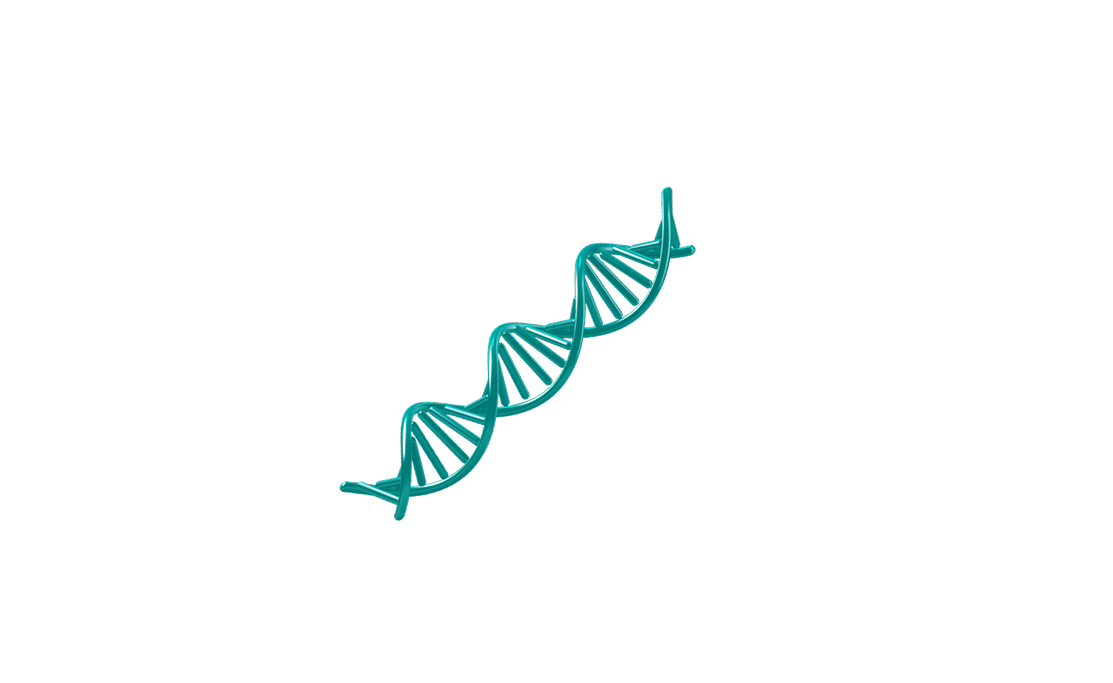
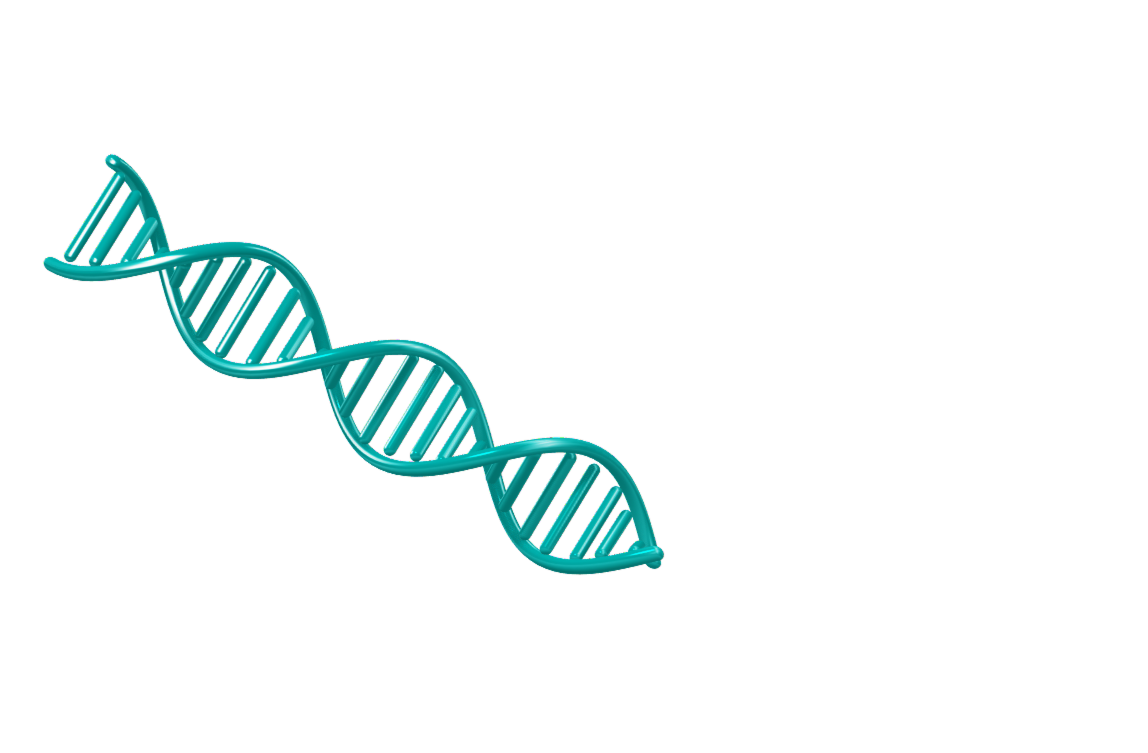
update

Changed region(s): [[0.0305, 0.1845, 0.6415, 0.7687]]

diff --git a/resources/views/product.blade.php b/resources/views/product.blade.php
@@ -102,46 +102,57 @@
                     <h6 class="reviews__title">Customer Reviews</h6>
                     <h6 class="reviews__reviews">{{$product->countReviews()}} Reviews</h6>
                 </div>
-                <form  class="reviews__right" href="#reviews">
-                    <button class="reviews__btn" name="writeReview" value="display" style="display: {{$writeReview == 'display' ? 'none' : 'display'}}">WRITE A REVIEW</button>
-                    <button style="display: {{$writeReview == 'display' ? 'display' : 'none'}}" class="reviews__btn" name="writeReview" value="none">HIDE THE FORM</button>
+                <form class="reviews__right" href="#reviews">
+                    <button class="reviews__btn" name="writeReview" value="display"
+                            style="display: {{$writeReview == 'display' ? 'none' : 'display'}}">WRITE A REVIEW
+                    </button>
+                    <button style="display: {{$writeReview == 'display' ? 'display' : 'none'}}" class="reviews__btn"
+                            name="writeReview" value="none">HIDE THE FORM
+                    </button>
                 </form>
             </div>
             <div class="reviews__main" id="reviews">
                 @if($writeReview == 'display')
-                <form method="post" class="review-create" style="width: 100%; gap: 10px; display: flex; flex-direction: column; margin-bottom: 60px
+                    <form method="post" class="review-create" style="width: 100%; gap: 10px; display: flex; flex-direction: column; margin-bottom: 60px
                     " enctype='multipart/form-data' action="{{route('review')}}">
-                    @csrf
-                    <input type="text" name="product_id" hidden value="{{$product->id}}">
-                    <div style="width: 100%; ; padding-bottom: 20px; border-radius: 8px;">
-                        <input multiple type="file"
-                               style="width: 100%;padding: 10px; background-color: #f2f7f8; border-radius: 8px"
-                               id="" accept="image/png, image/jpeg" name="images[]" >
-                    </div>
-                    <div style="width: 100%; ; padding-bottom: 20px; border-radius: 8px; ">
-                    <textarea style="width: 100%;padding: 10px; background-color: #f2f7f8; border-radius: 8px" name="text"
-                              id="" placeholder="Your text ..."></textarea>
-                    </div>
-                    <button class="reviews__btn" type="submit" style="display: inline-block">Submit</button>
-                </form>
-@endif
-@foreach($reviews as $review)
-                <div class="review">
-                    <div class="review__left">
-                        <h5 class="review__name">{{$review->user()->name}}</h5>
-                        <h6 class="review__date">{{$review->created_at}}</h6>
-                    </div>
-                    <div class="review__right">
-                        <p class="review__top">{{$review->text}}</p>
-                        <p class="review__bottom">
-                            @foreach($review->images() as $image)
-                            <img src="{{asset('storage/' . $image->patch)}}" alt="">
-                            @endforeach()
-                        </p>
-                    </div>
-                </div>
-@endforeach()
-                <button name='showmore' class="reviews__more">SHOW MORE</button>
+                        @csrf
+                        <input type="text" name="product_id" hidden value="{{$product->id}}">
+                        <div style="width: 100%; ; padding-bottom: 20px; border-radius: 8px;">
+                            <input multiple type="file"
+                                   style="width: 100%;padding: 10px; background-color: #f2f7f8; border-radius: 8px"
+                                   id="" accept="image/png, image/jpeg" name="images[]">
+                        </div>
+                        <div style="width: 100%; ; padding-bottom: 20px; border-radius: 8px; ">
+                    <textarea style="width: 100%;padding: 10px; background-color: #f2f7f8; border-radius: 8px"
+                              name="text"
+                              required id="" placeholder="Your text ..."></textarea>
+                        </div>
+                        <button class="reviews__btn" type="submit" style="display: inline-block">Submit</button>
+                    </form>
+                @endif
+                @foreach($reviews as $review)
+                    <form class="review" action="{{route('review.delete')}}" method="post">
+                        @csrf
+                        <div class="review__left">
+                            <h5 class="review__name">{{$review->user()->name}}</h5>
+                            <h6 class="review__date">{{$review->created_at}}</h6>
+                            <br>
+                            @if(auth()->check() and auth()->user()->id == $review->user()->id)
+                                <input type="text" hidden name="review_id" value="{{$review->id}}">
+                                <button type="submit" class="reviews__btn">Delete</button>
+                            @endif
+                        </div>
+                        <div class="review__right">
+                            <p class="review__top">{{$review->text}}</p>
+                            <p class="review__bottom">
+                                @foreach($review->images() as $image)
+                                    <img src="{{asset('storage/' . $image->patch)}}" alt="">
+                                @endforeach()
+                            </p>
+                        </div>
+                    </form>
+                @endforeach()
+{{--                <a name='showmore' class="reviews__more">SHOW MORE</a>--}}
             </div>
         </div>
     </section>

diff --git a/resources/views/layouts/profile.blade.php b/resources/views/layouts/profile.blade.php
@@ -55,21 +55,35 @@
                 <img class="account__img" style="border-radius: 100px" src="{{ auth()->user()->avatar ? asset('storage/' . auth()->user()->avatar) : '/img/user.png' }}" alt="">
                 <div>
                     <h5 class="account__name">{{auth()->user()->name}}</h5>
-                    <h6 class="account__status">Status: <span>Verified</span></h6>
+                    <h6 class="account__status">Status: <span>Not Verified</span></h6>
                 </div>
             </div>
             <form class="account__ul" action="{{route('logout')}}" method="post">
                 @csrf
-                <a href="{{route('profile.cart')}}" class="account__item {{request()->is('profile/cart') ? 'active' : ''}}">My Cart</a>
-                <a href="{{route('profile.referral')}}" class="account__item" {{request()->is('profile/referral') ? 'active' : ''}}>Referral Program</a>
-                <a href="{{route('profile.status')}}" class="account__item" {{request()->is('profile/status') ? 'active' : ''}}>Account Status</a>
-                <a href="{{route('profile.support')}}" class="account__item" {{request()->is('profile/support') ? 'active' : ''}}>Support</a>
-                <a href="{{route('profile.balance')}}" class="account__item" {{request()->is('profile/balance') ? 'active' : ''}}>Balance</a>
-                <a href="{{route('profile.edit')}}" class="account__item {{request()->is('profile/edit') ? 'active' : ''}}">Edit Profile</a>
+                <a href="{{route('profile.cart')}}" class="account__item {{request()->is('profile/cart') ? 'active' : ''}}">
+                    <img style="width: 16px; margin-top: 3px; margin-right: 5px" src="{{ asset('./img/cart.svg')}}" alt="">
+                    My Cart</a>
+                <a href="{{route('profile.referral')}}" class="account__item {{request()->is('profile/referral') ? 'active' : ''}}">
+                    <img style="width: 16px; margin-top: 3px; margin-right: 5px" src="{{ asset('./img/ref.svg')}}" alt="">
+                    Referral Program</a>
+                <a href="{{route('profile.status')}}" class="account__item {{request()->is('profile/status') ? 'active' : ''}}">
+                    <img style="width: 16px; margin-top: 3px; margin-right: 5px" src="{{ asset('./img/star.svg')}}" alt="">
+                    Account Status</a>
+                <a href="{{route('profile.support')}}" class="account__item {{request()->is('profile/support') ? 'active' : ''}}">
+                    <img style="width: 16px; margin-top: 3px; margin-right: 5px" src="{{ asset('./img/message.svg')}}" alt="">
+                    Support</a>
+                <a href="{{route('profile.balance')}}" class="account__item {{request()->is('profile/balance') ? 'active' : ''}}">
+                    <img style="width: 16px; margin-top: 3px; margin-right: 5px" src="{{ asset('./img/message.svg')}}" alt="">
+                    Balance</a>
+                <a href="{{route('profile.edit')}}" class="account__item {{request()->is('profile/edit') ? 'active' : ''}}">
+                    <img style="width: 16px; margin-top: 3px; margin-right: 5px" src="{{ asset('./img/edit.svg')}}" alt="">
+                    Edit Profile</a>
 
                 <button  class="account__item" style="
               text-align: left; margin-top: 20px; color: #222222;
-                ">Log out</button>
+                ">
+                    <img style="width: 16px; margin-top: 3px; margin-right: 5px" src="{{ asset('./img/logout.svg')}}" alt="">
+                    Log out</button>
             </form>
         </div>
         <div class="account__right">
@@ -87,16 +101,20 @@
             </div>
             <div class="social__right">
                 <a class="social__item">
-                    Telegram
+                    <img src={{ asset('/img/tg.svg')}} alt="">
+                    <p>Telegram</p>
                 </a>
                 <a class="social__item">
-                    YouTube
+                    <img src={{ asset('/img/yt.svg')}} alt="">
+                    <p>YouTube</p>
                 </a>
                 <a class="social__item">
-                    Reddit
+                    <img src={{ asset('/img/reddit.svg')}} alt="">
+                    <p>Reddit</p>
                 </a>
                 <a class="social__item">
-                    X (Twitter)
+                    <img src={{ asset('/img/x.svg')}} alt="">
+                    <p>X (Twitter)</p>
                 </a>
             </div>
         </div>
@@ -122,7 +140,9 @@
 
 
         </div>
-        <a href="#header" class="footer__btn"></a>
+        <a href="#header" class="footer__btn">
+            <img src="{{ asset('./img/arrow-up.svg')}}" alt="" style="display:block; margin: 0 auto; padding-top: 14px;">
+        </a>
     </div>
     <div class="footer__bottom">
         <div class="container">

diff --git a/resources/views/index.blade.php b/resources/views/index.blade.php
@@ -8,7 +8,7 @@
                 <p class="banner__descritpion">
                     Smart sepplements and tools to help you think <br> sharper, sleep better, and feel more alive.
                 </p>
-                <a class="banner__btn"><p>shop new</p></a>
+                <a href="#store" class="banner__btn"><p>shop new</p></a>
             </div>
         </div>
     </section>
@@ -62,11 +62,12 @@
                     <span>You get 5%</span> of every order made by your referral. <br>
                     They receive <span>5% off on all products.</span>
                 </p>
-                <a href="" class="referral__btn">SIGN IN TO GET YOUR LINK</a>
+                <a href="{{route('profile.referral')}}" class="referral__btn">SIGN IN TO GET YOUR LINK</a>
                 <p href="" class="referral__caption">Referral rewards are added after a completed purchase.
                     Discountsmapply automaticaly at checkout.</p>
             </div>
-            <img src="./img/dna1.png" alt="" style="position: absolute; z-index: -1 ;top: -240px; left: -450px; width: 500%; transform: rotate(355deg);">
+            <img src="./img/dna.png" alt="" style="position: absolute; z-index: -1; left: 15px; top: -200px">
+            <img src="./img/dna1.png" alt="" style="position: absolute; z-index: -1; right: 0; top: -350px">
         </div>
     </section>
     <section class="faq" id="faq">

diff --git a/app/Http/Controllers/Admin/UserAdminController.php b/app/Http/Controllers/Admin/UserAdminController.php
@@ -18,12 +18,24 @@ class UserAdminController extends Controller
     public function index(Request $request): View
     {
         $users = User::all();
-        return view('admin.user.index', compact('users'));
+        $ids = [];
+        foreach ($users as $user) {
+            $mes = Message::where('user_id', $user->id)->latest()->first();
+            if ($mes and $mes->status != 'read') {
+                $ids[] = $user->id;
+            };
+        }
+        $usersActive = User::findMany($ids);
+        $users = User::whereNotIn('id', $ids)->get();
+        return view('admin.user.index', compact('users', 'usersActive'));
     }
 
     public function chat(User $user, Request $request): View
     {
         $messages = Message::where('user_id', $user->id)->get();
+        foreach ($messages as &$message) {
+            $message->update(['status' => 'read']);
+        }
         return view('admin.user.chat', compact('user', 'messages'));
     }
 
@@ -32,7 +44,7 @@ class UserAdminController extends Controller
         $all = $request->all();
         Message::create([
             'text' => $all['text'],
-            'status' => 'new',
+            'status' => 'read',
             'whom' => 'user',
             'user_id' => $all['user_id']
         ]);

diff --git a/app/Http/Controllers/MainController.php b/app/Http/Controllers/MainController.php
@@ -113,18 +113,29 @@ class MainController extends Controller
             'product_id' => $all['product_id'],
             'text' => $all['text'],
             'user_id' => auth()->user()->id,
-
         ]);
 
-        $files = $all['images'];
-        foreach ($files as $file) {
-            $patch = $file->store('reviews', 'public');
-            ProductReviewImage::create([
-                'patch' => $patch,
-                'product_review_id' => $pr->id,
-            ]);
-        }
 
+        if (isset($all['images'])) {
+            $files = $all['images'];
+            foreach ($files as $file) {
+                $patch = $file->store('reviews', 'public');
+                ProductReviewImage::create([
+                    'patch' => $patch,
+                    'product_review_id' => $pr->id,
+                ]);
+            }
+        }
         return redirect()->route('product', $all['product_id']);
     }
+
+    public function review_delete(Request $request)
+    {
+        $review = ProductReview::where('id', $request->review_id)->first();
+        if ($review and auth()->user()->id == $review->user()->id) {
+            $review->delete();
+        }
+        return back();
+    }
+
 }

diff --git a/resources/views/admin/user/index.blade.php b/resources/views/admin/user/index.blade.php
@@ -17,6 +17,21 @@
                         </tr>
                         </thead>
                         <tbody>
+
+                        @foreach($usersActive as $user)
+                            <tr class="align-middle" >
+                                <td>{{$user->id}}</td>
+                                <td style="background-color: #7fdbda80;">
+                                    <p >{{$user->name}}</p>
+                                </td>
+                                <td>
+
+                                    <a href="{{route('admin.user.chat', $user->id)}}" type="submit"
+                                       class="btn btn-dark">Chat</a>
+
+                                </td>
+                            </tr>
+                        @endforeach
                         @foreach($users as $user)
                             <tr class="align-middle">
                                 <td>{{$user->id}}</td>

diff --git a/app/Http/Requests/Auth/LoginRequest.php b/app/Http/Requests/Auth/LoginRequest.php
@@ -27,7 +27,7 @@ class LoginRequest extends FormRequest
     public function rules(): array
     {
         return [
-            'name' => ['required', 'string', 'email'],
+            'name' => ['required', 'string'],
             'password' => ['required', 'string'],
         ];
     }
@@ -45,7 +45,7 @@ class LoginRequest extends FormRequest
             RateLimiter::hit($this->throttleKey());
 
             throw ValidationException::withMessages([
-                'email' => trans('auth.failed'),
+                'name' => trans('auth.failed'),
             ]);
         }
 
@@ -80,6 +80,6 @@ class LoginRequest extends FormRequest
      */
     public function throttleKey(): string
     {
-        return Str::transliterate(Str::lower($this->string('email')).'|'.$this->ip());
+        return Str::transliterate(Str::lower($this->string('name')).'|'.$this->ip());
     }
 }

diff --git a/routes/web.php b/routes/web.php
@@ -21,6 +21,7 @@ Route::get('/', [MainController::class, 'index'])->name('index');
 Route::get('/{product}/product', [MainController::class, 'product'])->name('product');
 Route::post('/{product}/product', [MainController::class, 'product'])->name('product');
 Route::middleware('auth')->post('/review', [MainController::class, 'review'])->name('review');
+Route::middleware('auth')->post('/review-delete', [MainController::class, 'review_delete'])->name('review.delete');
 
 
 

diff --git a/resources/views/auth/login.blade.php b/resources/views/auth/login.blade.php
@@ -1,4 +1,3 @@
-
 <!DOCTYPE html>
 <html lang="en">
 <head>
@@ -23,7 +22,11 @@
     @csrf
     <div class="container">
         <h1 class="form__logo">BIOHACKERS</h1>
-        <h2 class="form__title">Log In</h2>
+        <h2 class="form__title">Log In </h2>
+        @foreach($errors->all() as $error)
+            <p>{{$error}}</p>
+            @endforeach()
+
         <div class="input">
             <input type="text" name="name" placeholder="Username">
         </div>

diff --git a/resources/views/profile/status.blade.php b/resources/views/profile/status.blade.php
@@ -28,7 +28,7 @@
             </ul>
             <ul>
                 <li class="title">You Progress</li>
-                <li class="green">Done</li>
+                <li class="green" style="color: black">None</li>
                 <li class="bold">{{auth()->user()->countOrders()}} / 1</li>
                 <li class="bold">{{auth()->user()->countOrders()}} / 10</li>
                 <li class="bold">{{auth()->user()->countOrders()}} / 100</li>

diff --git a/app/Http/Controllers/Auth/ConfirmablePasswordController.php b/app/Http/Controllers/Auth/ConfirmablePasswordController.php
@@ -25,7 +25,7 @@ class ConfirmablePasswordController extends Controller
     public function store(Request $request): RedirectResponse
     {
         if (! Auth::guard('web')->validate([
-            'email' => $request->user()->email,
+            'name' => $request->user()->name,
             'password' => $request->password,
         ])) {
             throw ValidationException::withMessages([

diff --git a/app/Http/Controllers/Auth/RegisteredUserController.php b/app/Http/Controllers/Auth/RegisteredUserController.php
@@ -30,7 +30,7 @@ class RegisteredUserController extends Controller
     public function store(Request $request): RedirectResponse
     {
         $request->validate([
-            'name' => ['required', 'string', 'max:255'],
+            'name' => ['required', 'string', 'max:255', 'unique:users,name'],
             'password' => ['required', Rules\Password::defaults()],
         ]);
 
